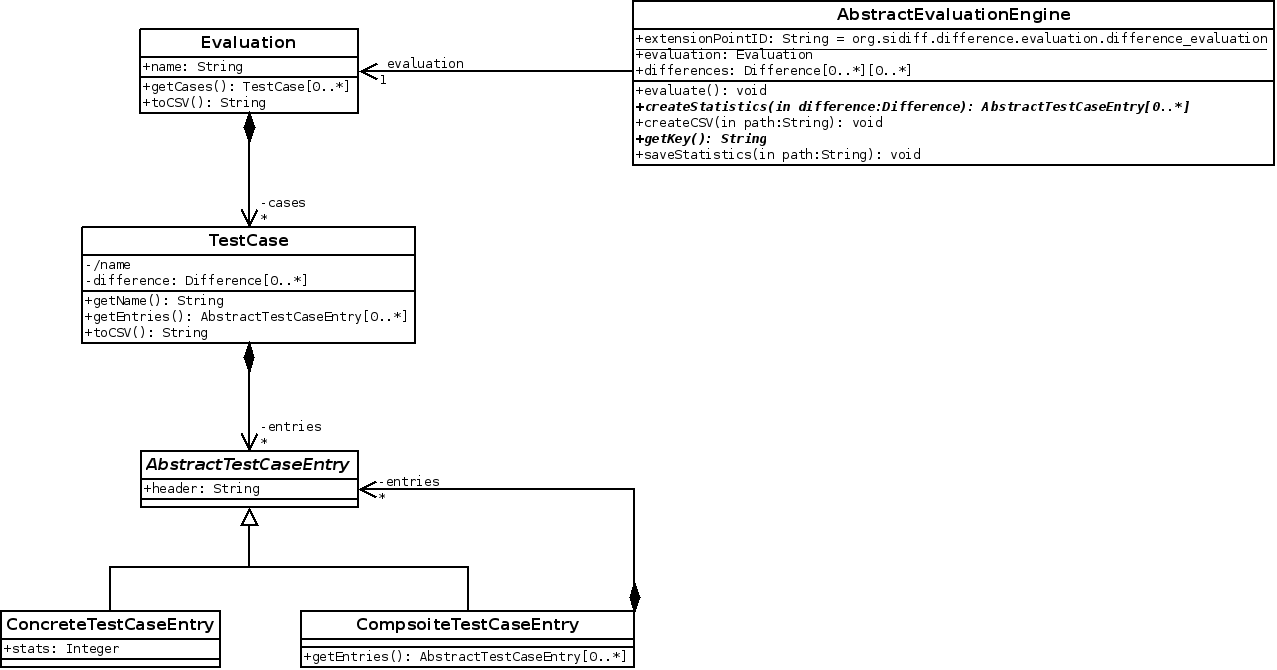
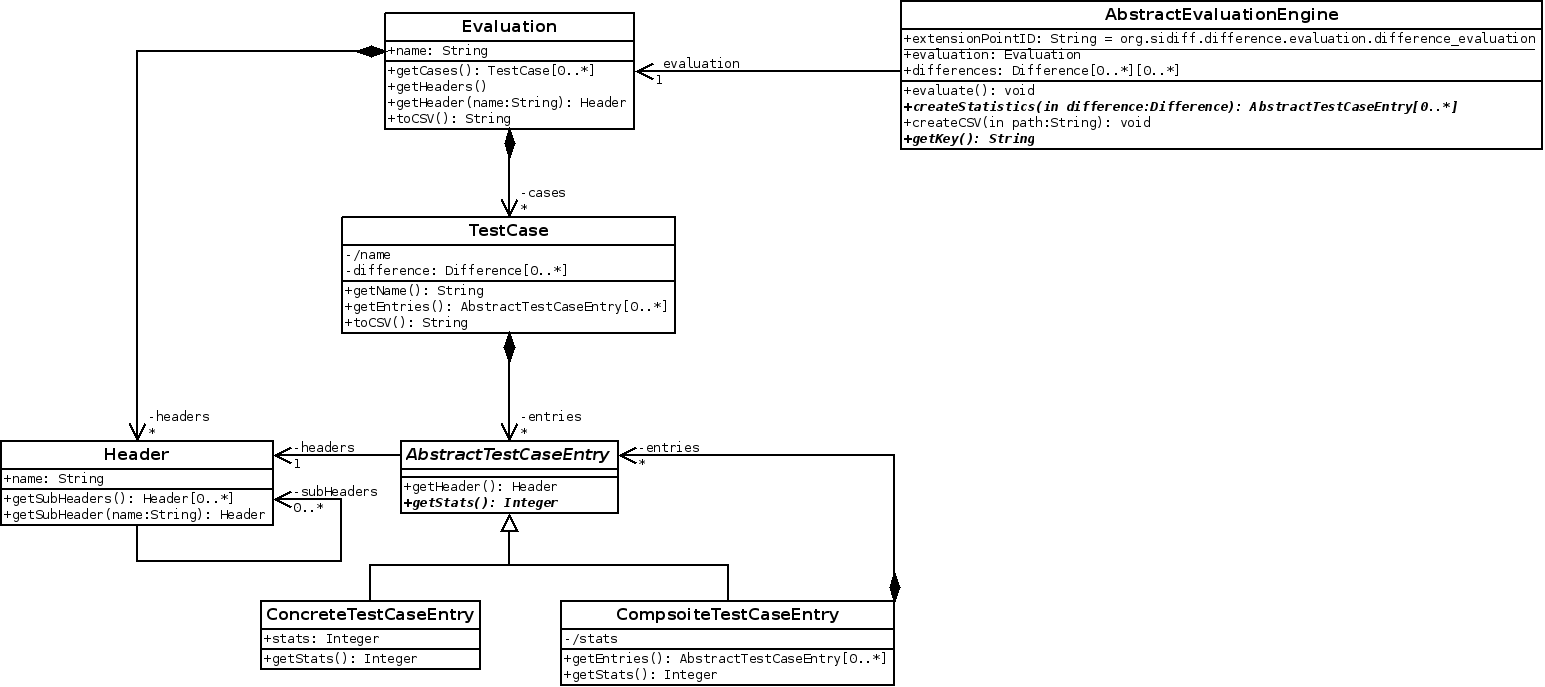
evaluation of results should work now

diff --git a/evaluation/org.sidiff.difference.evaluation/src/org/sidiff/difference/evaluation/Evaluation.java b/evaluation/org.sidiff.difference.evaluation/src/org/sidiff/difference/evaluation/Evaluation.java
@@ -1,9 +1,7 @@
 package org.sidiff.difference.evaluation;
 
 import java.util.ArrayList;
-import java.util.HashSet;
 import java.util.List;
-import java.util.Set;
 
 /**
  * 
@@ -18,8 +16,11 @@ public class Evaluation {
 
 	private List<TestCase> cases;
 	
+	private List<Header> headers;
+	
 	public Evaluation() {
 		this.cases = new ArrayList<TestCase>();
+		this.headers = new ArrayList<Header>();
 	}
 	
 	public String getName() {
@@ -34,31 +35,47 @@ public class Evaluation {
 		return cases;
 	}
 	
+	public List<Header> getHeaders() {
+		return headers;
+	}
+	
+	public Header getHeader(String name){
+		for(Header header : headers){
+			if(header.getName().equals(name)){
+				return header;
+			}
+		}
+		return null;
+	}
+
 	public String toCSV(){
 		String csv = "Test Case";
-		List<CompositeTestCaseEntry> compositeTestCaseEntries = new ArrayList<CompositeTestCaseEntry>();
-		//create header
-		for(TestCase testCase : getCases()){
-			for(AbstractTestCaseEntry entry : testCase.getEntries()){
-				if(entry instanceof CompositeTestCaseEntry){
-					compositeTestCaseEntries.add((CompositeTestCaseEntry)entry);
-					csv += CSV_FIELD_DELIMITER + entry.getHeader();
+		//create Header
+		for(Header header : headers){
+			csv += CSV_FIELD_DELIMITER + header.getName();
+			if(!header.getSubHeaders().isEmpty()){
+				for(int i = 0 ; i < header.getSubHeaders().size()-1; i++){
+					csv += CSV_FIELD_DELIMITER;
 				}
+			}
+		}
+		csv += "\n";
+		
+		for(Header header : headers){
+			for(Header subHeader : header.getSubHeaders()){
+				csv += CSV_FIELD_DELIMITER + subHeader.getName();
+			}
+		}
+		csv += "\n";
+		
+		//Test-Cases
+		for(TestCase testCase : cases){
+			csv += testCase.getName();
+			// Entries
+			for(AbstractTestCaseEntry entry : testCase.getEntries()){
+				csv += CSV_FIELD_DELIMITER + entry.getStats();
 			}
 			csv += "\n";
-			for(CompositeTestCaseEntry outerEntry : compositeTestCaseEntries){
-				Set<String> testCaseHeaders = new HashSet<String>();
-				for(AbstractTestCaseEntry innerEntry : outerEntry.getEntries()){
-					if(innerEntry instanceof ConcreteTestCaseEntry){
-						ConcreteTestCaseEntry entry = (ConcreteTestCaseEntry)innerEntry;
-						testCaseHeaders.add(entry.getHeader());
-					}
-				}
-				for(String header : testCaseHeaders){
-					csv += CSV_FIELD_DELIMITER + header;
-				}
-			}
-			csv +="\n";
 		}
 		return csv;
 	}

diff --git a/evaluation/org.sidiff.difference.evaluation/src/org/sidiff/difference/evaluation/engine/AbstractEvaluationEngine.java b/evaluation/org.sidiff.difference.evaluation/src/org/sidiff/difference/evaluation/engine/AbstractEvaluationEngine.java
@@ -7,8 +7,14 @@ import java.util.List;
 import org.sidiff.difference.asymmetric.facade.util.Difference;
 import org.sidiff.difference.evaluation.AbstractTestCaseEntry;
 import org.sidiff.difference.evaluation.Evaluation;
+import org.sidiff.difference.evaluation.Header;
 import org.sidiff.difference.evaluation.TestCase;
 
+/**
+ * 
+ * @author cpietsch
+ *
+ */
 public abstract class AbstractEvaluationEngine {
 
 	public static final String extensionPointID = "org.sidiff.difference.evaluation.difference_evaluation";
@@ -22,22 +28,22 @@ public abstract class AbstractEvaluationEngine {
 	}
 	
 	public void evaluate(){
+		
+		evaluation.getHeaders().addAll(createHeaders());
 		for(List<Difference> testCaseDifferences : differences){
 			TestCase testCase = new TestCase(testCaseDifferences);
-			testCase.getEntries().addAll(createStatistics(testCaseDifferences));
+			testCase.getEntries().addAll(createTestCaseEntry(testCaseDifferences));
 			evaluation.getCases().add(testCase);
 		}
 	}
 	
-	public void createCSV(String path){
-		
-	}
+	public abstract List<Header> createHeaders();
 	
-	public abstract List<AbstractTestCaseEntry> createStatistics(List<Difference> differences);
+	public abstract List<AbstractTestCaseEntry> createTestCaseEntry(List<Difference> differences);
 	
 	public abstract String getKey();
 	
-	public void saveStatistics(String path) throws IOException{
+	public void createCSV(String path) throws IOException{
 		StringBuffer buffer = new StringBuffer();
 
 		// Header

diff --git a/evaluation/org.sidiff.difference.evaluation/src/org/sidiff/difference/evaluation/Header.java b/evaluation/org.sidiff.difference.evaluation/src/org/sidiff/difference/evaluation/Header.java
@@ -1,0 +1,50 @@
+package org.sidiff.difference.evaluation;
+
+import java.util.ArrayList;
+import java.util.List;
+
+/**
+ * 
+ * @author cpietsch
+ *
+ */
+public class Header {
+
+	private String name;
+	
+	private List<Header> subHeaders;
+
+	public Header(String name) {
+		this.name = name;
+		this.subHeaders = new ArrayList<Header>();
+	}
+
+	public String getName() {
+		return name;
+	}
+
+	public void setName(String name) {
+		this.name = name;
+	}
+
+	public List<Header> getSubHeaders() {
+		return subHeaders;
+	}
+	
+	public Header getSubHeader(String name){
+		for(Header subHeader : subHeaders){
+			if(subHeader.getName().equals(name)){
+				return subHeader;
+			}
+		}
+		for(Header subHeader : subHeaders){
+			Header subsubHeader = subHeader.getSubHeader(name);
+			if(subsubHeader != null){
+				return subsubHeader;
+			}
+		}
+		return null;
+	}
+	
+	
+}

diff --git a/evaluation/org.sidiff.difference.evaluation/src/org/sidiff/difference/evaluation/CompositeTestCaseEntry.java b/evaluation/org.sidiff.difference.evaluation/src/org/sidiff/difference/evaluation/CompositeTestCaseEntry.java
@@ -10,16 +10,22 @@ import java.util.List;
  */
 public class CompositeTestCaseEntry extends AbstractTestCaseEntry {
 
-	private static final String CSV_FIELD_DELIMITER = ";";
-	
 	private List<AbstractTestCaseEntry> entries;
 
-	public CompositeTestCaseEntry(String header) {
+	public CompositeTestCaseEntry(Header header) {
 		super(header);
 		this.entries = new ArrayList<AbstractTestCaseEntry>();
 	}
 	
 	public List<AbstractTestCaseEntry> getEntries() {
 		return entries;
+	}
+	
+	public int getStats(){
+		int stats = 0;
+		for(AbstractTestCaseEntry entry : entries){
+			stats += entry.getStats();
+		}
+		return stats;
 	}
 }

diff --git a/evaluation/org.sidiff.difference.evaluation/src/org/sidiff/difference/evaluation/AbstractTestCaseEntry.java b/evaluation/org.sidiff.difference.evaluation/src/org/sidiff/difference/evaluation/AbstractTestCaseEntry.java
@@ -7,17 +7,16 @@ package org.sidiff.difference.evaluation;
  */
 public abstract class AbstractTestCaseEntry {
 
-	private String header;
+	private Header header;
 	
-	public AbstractTestCaseEntry(String header) {
+	public AbstractTestCaseEntry(Header header) {
 		this.header = header;
 	}
-
-	public String getHeader() {
+	
+	public Header getHeader(){
 		return header;
 	}
-
-	public void setHeader(String header) {
-		this.header = header;
-	}	
+	
+	public abstract int getStats();
+	
 }

diff --git a/evaluation/org.sidiff.difference.evaluation/src/org/sidiff/difference/evaluation/Handlers/EvaluationHandler.java b/evaluation/org.sidiff.difference.evaluation/src/org/sidiff/difference/evaluation/Handlers/EvaluationHandler.java
@@ -62,7 +62,7 @@ public class EvaluationHandler extends AbstractHandler {
 				engine.evaluate();
 				System.out.println("finsih");
 				try {
-					engine.saveStatistics(folder.getLocation().toOSString()+File.separator+"statistics.csv");
+					engine.createCSV(folder.getLocation().toOSString()+File.separator+"statistics.csv");
 				} catch (IOException e) {
 					// TODO Auto-generated catch block
 					e.printStackTrace();

diff --git a/evaluation/org.sidiff.difference.evaluation/src/org/sidiff/difference/evaluation/ConcreteTestCaseEntry.java b/evaluation/org.sidiff.difference.evaluation/src/org/sidiff/difference/evaluation/ConcreteTestCaseEntry.java
@@ -9,7 +9,7 @@ public class ConcreteTestCaseEntry extends AbstractTestCaseEntry {
 
 	private int stats;
 	
-	public ConcreteTestCaseEntry(String header, int stats){
+	public ConcreteTestCaseEntry(Header header, int stats){
 		super(header);
 		this.stats = stats;
 	}
